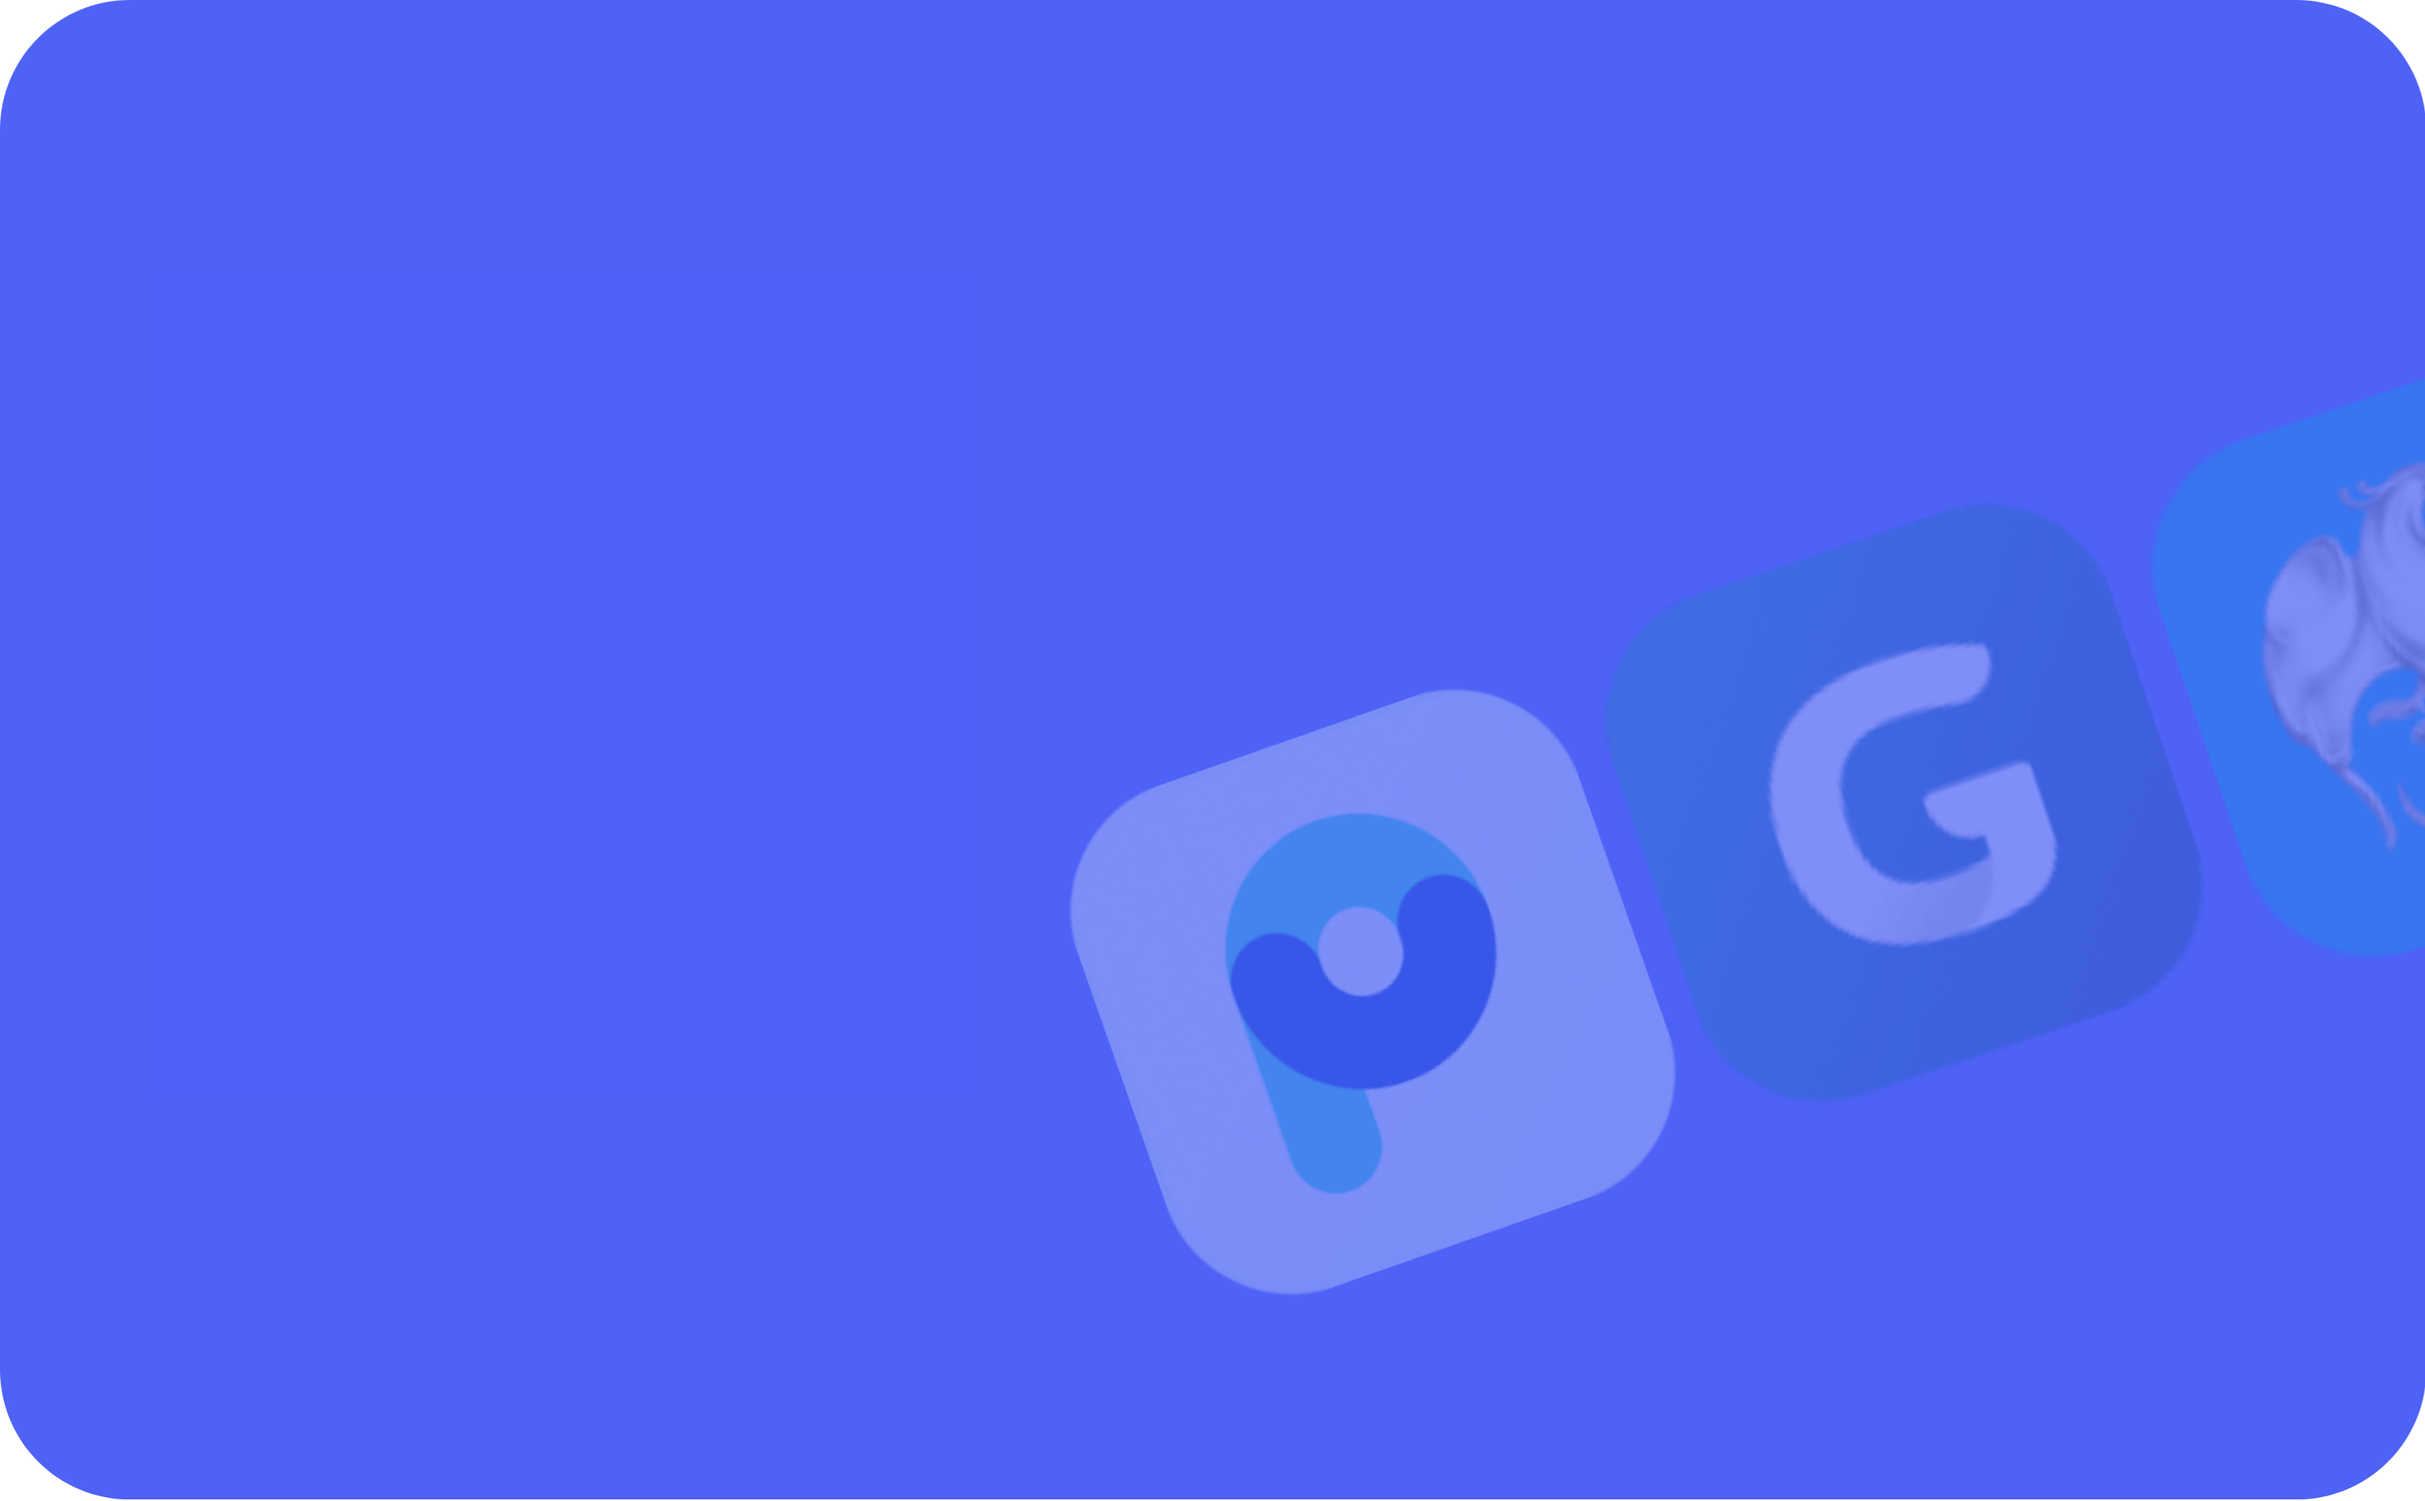
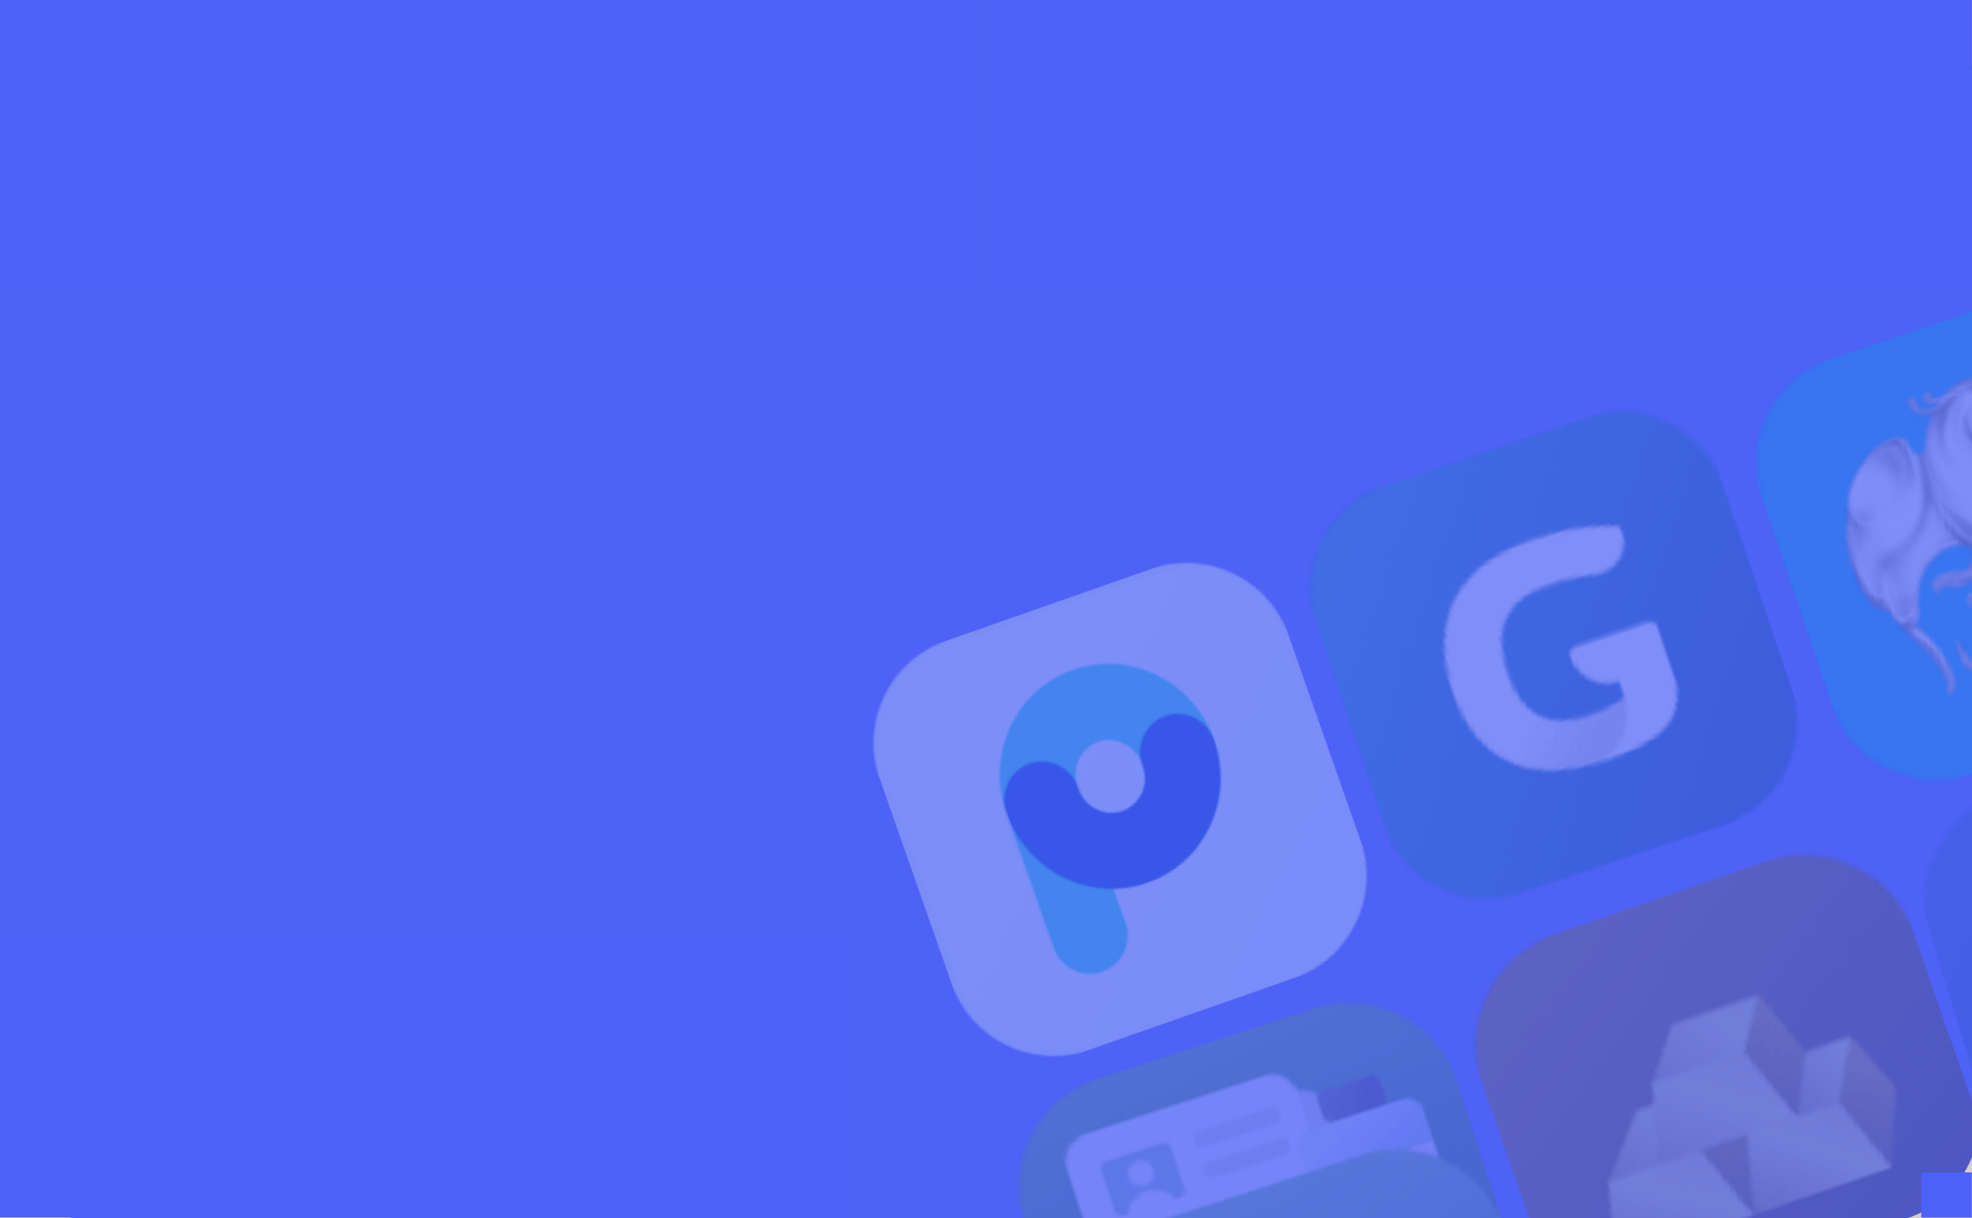
add

diff --git a/randomGift.html b/randomGift.html
@@ -143,7 +143,7 @@
     .title-container {
       text-align: center;
       padding: 20px;
-      background: url("https://raw.githubusercontent.com/Saran-J/WebJS/refs/heads/master/bg.png");
+      background: url("https://raw.githubusercontent.com/Saran-J/WebJS/refs/heads/master/bg2.png");
       background-size: cover;
       border-radius: 12px;
       box-shadow: 0 4px 10px rgba(0, 0, 0, 0.2);
